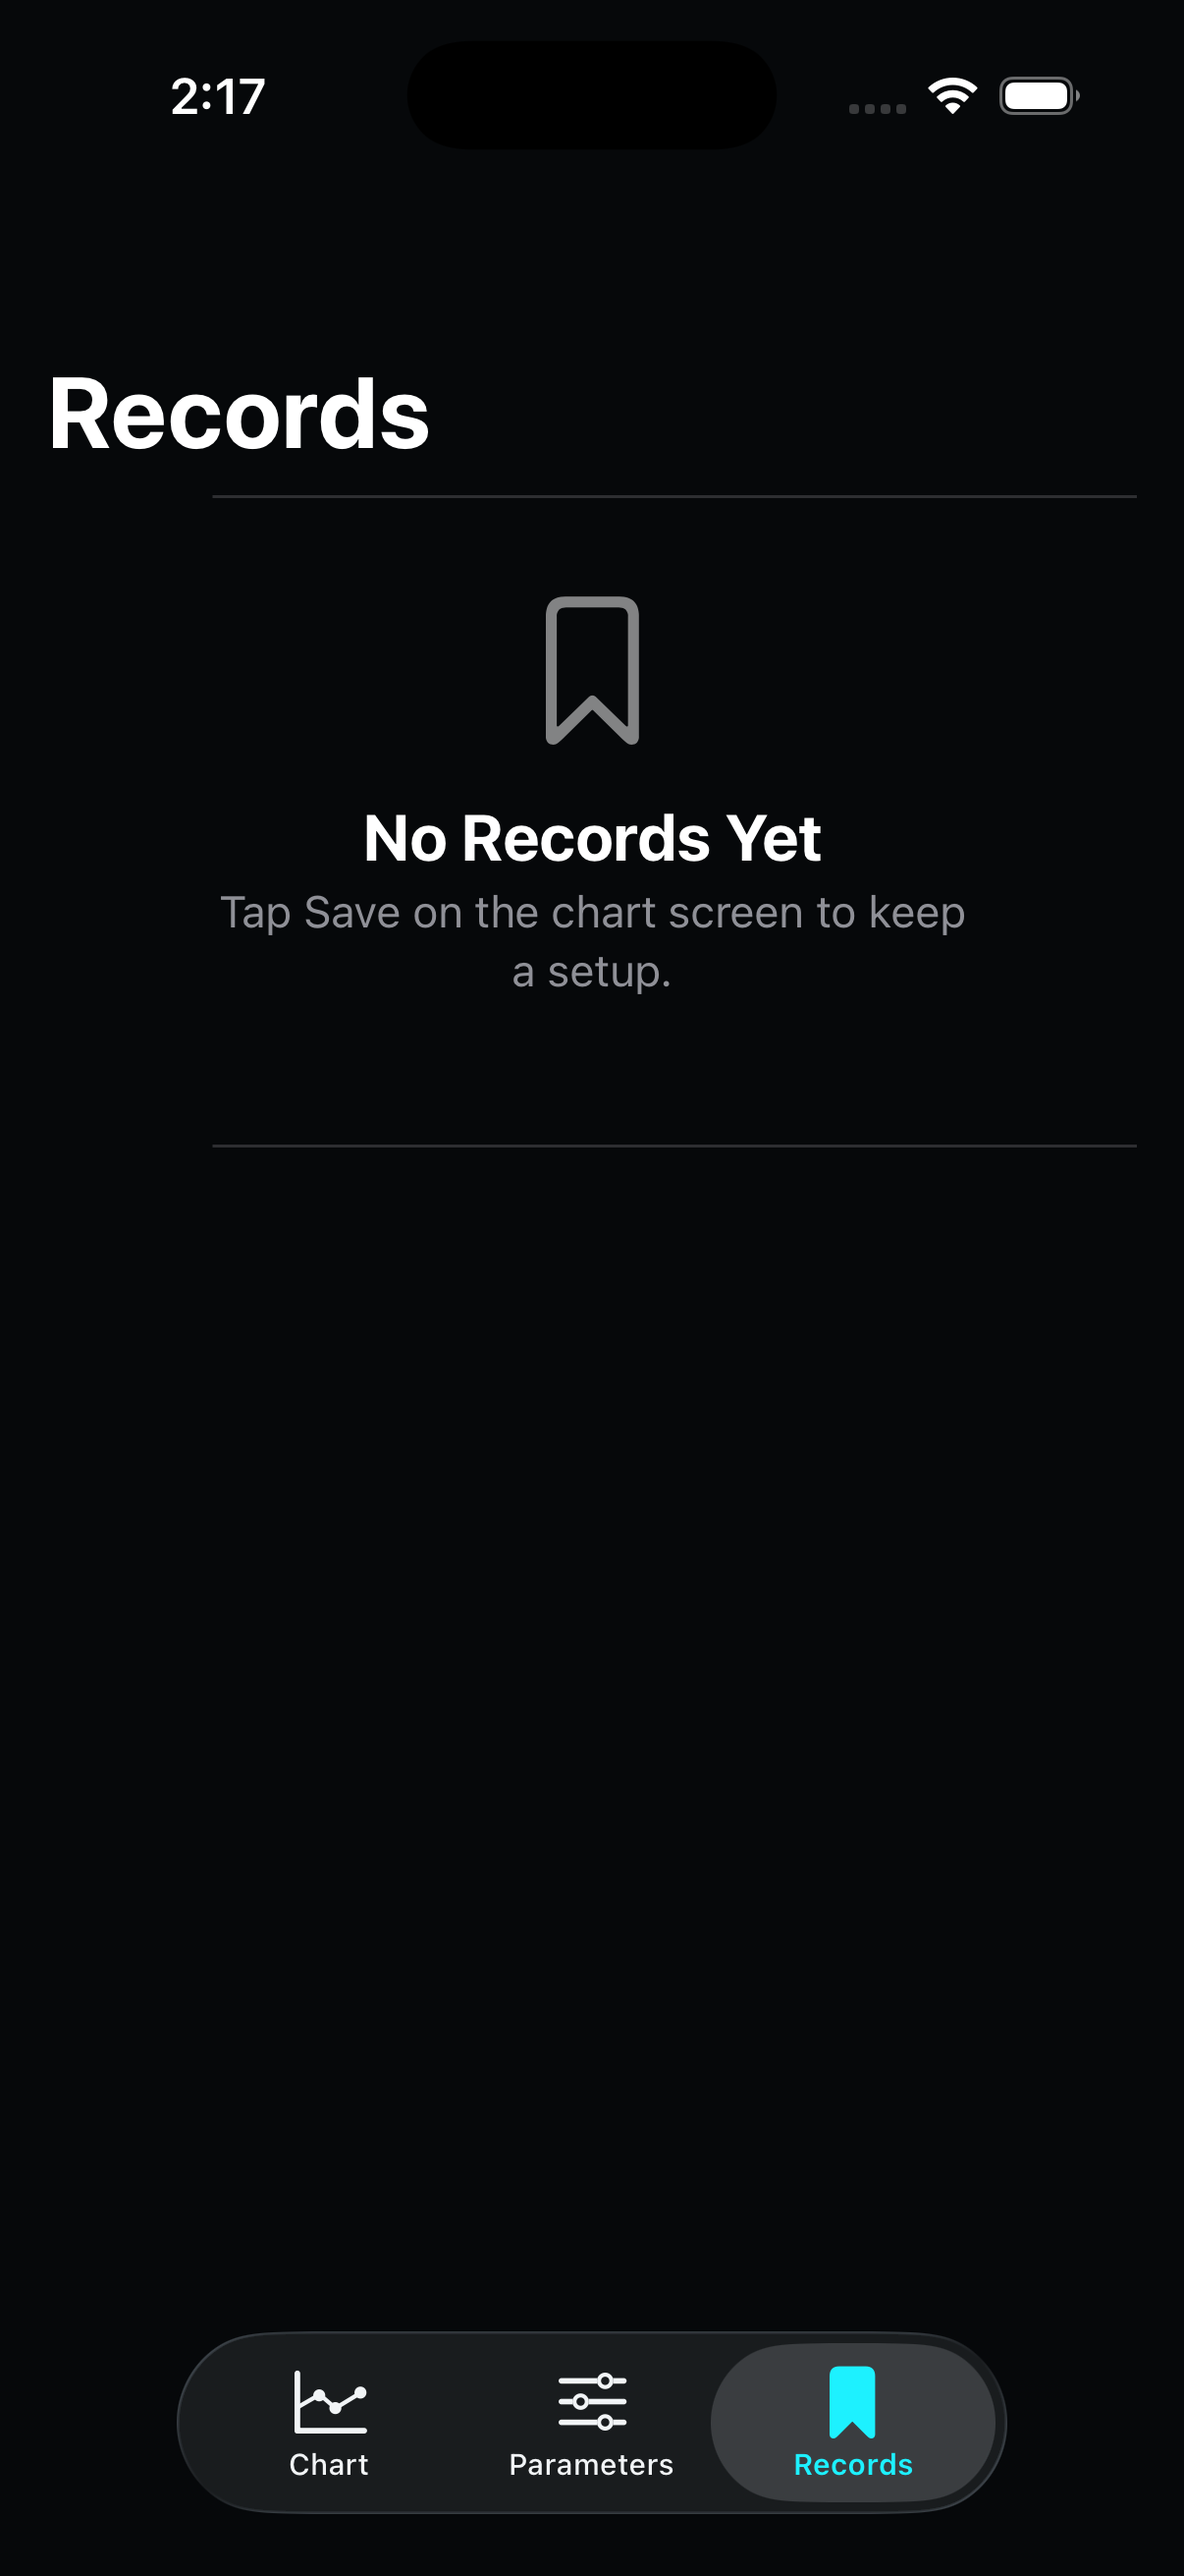
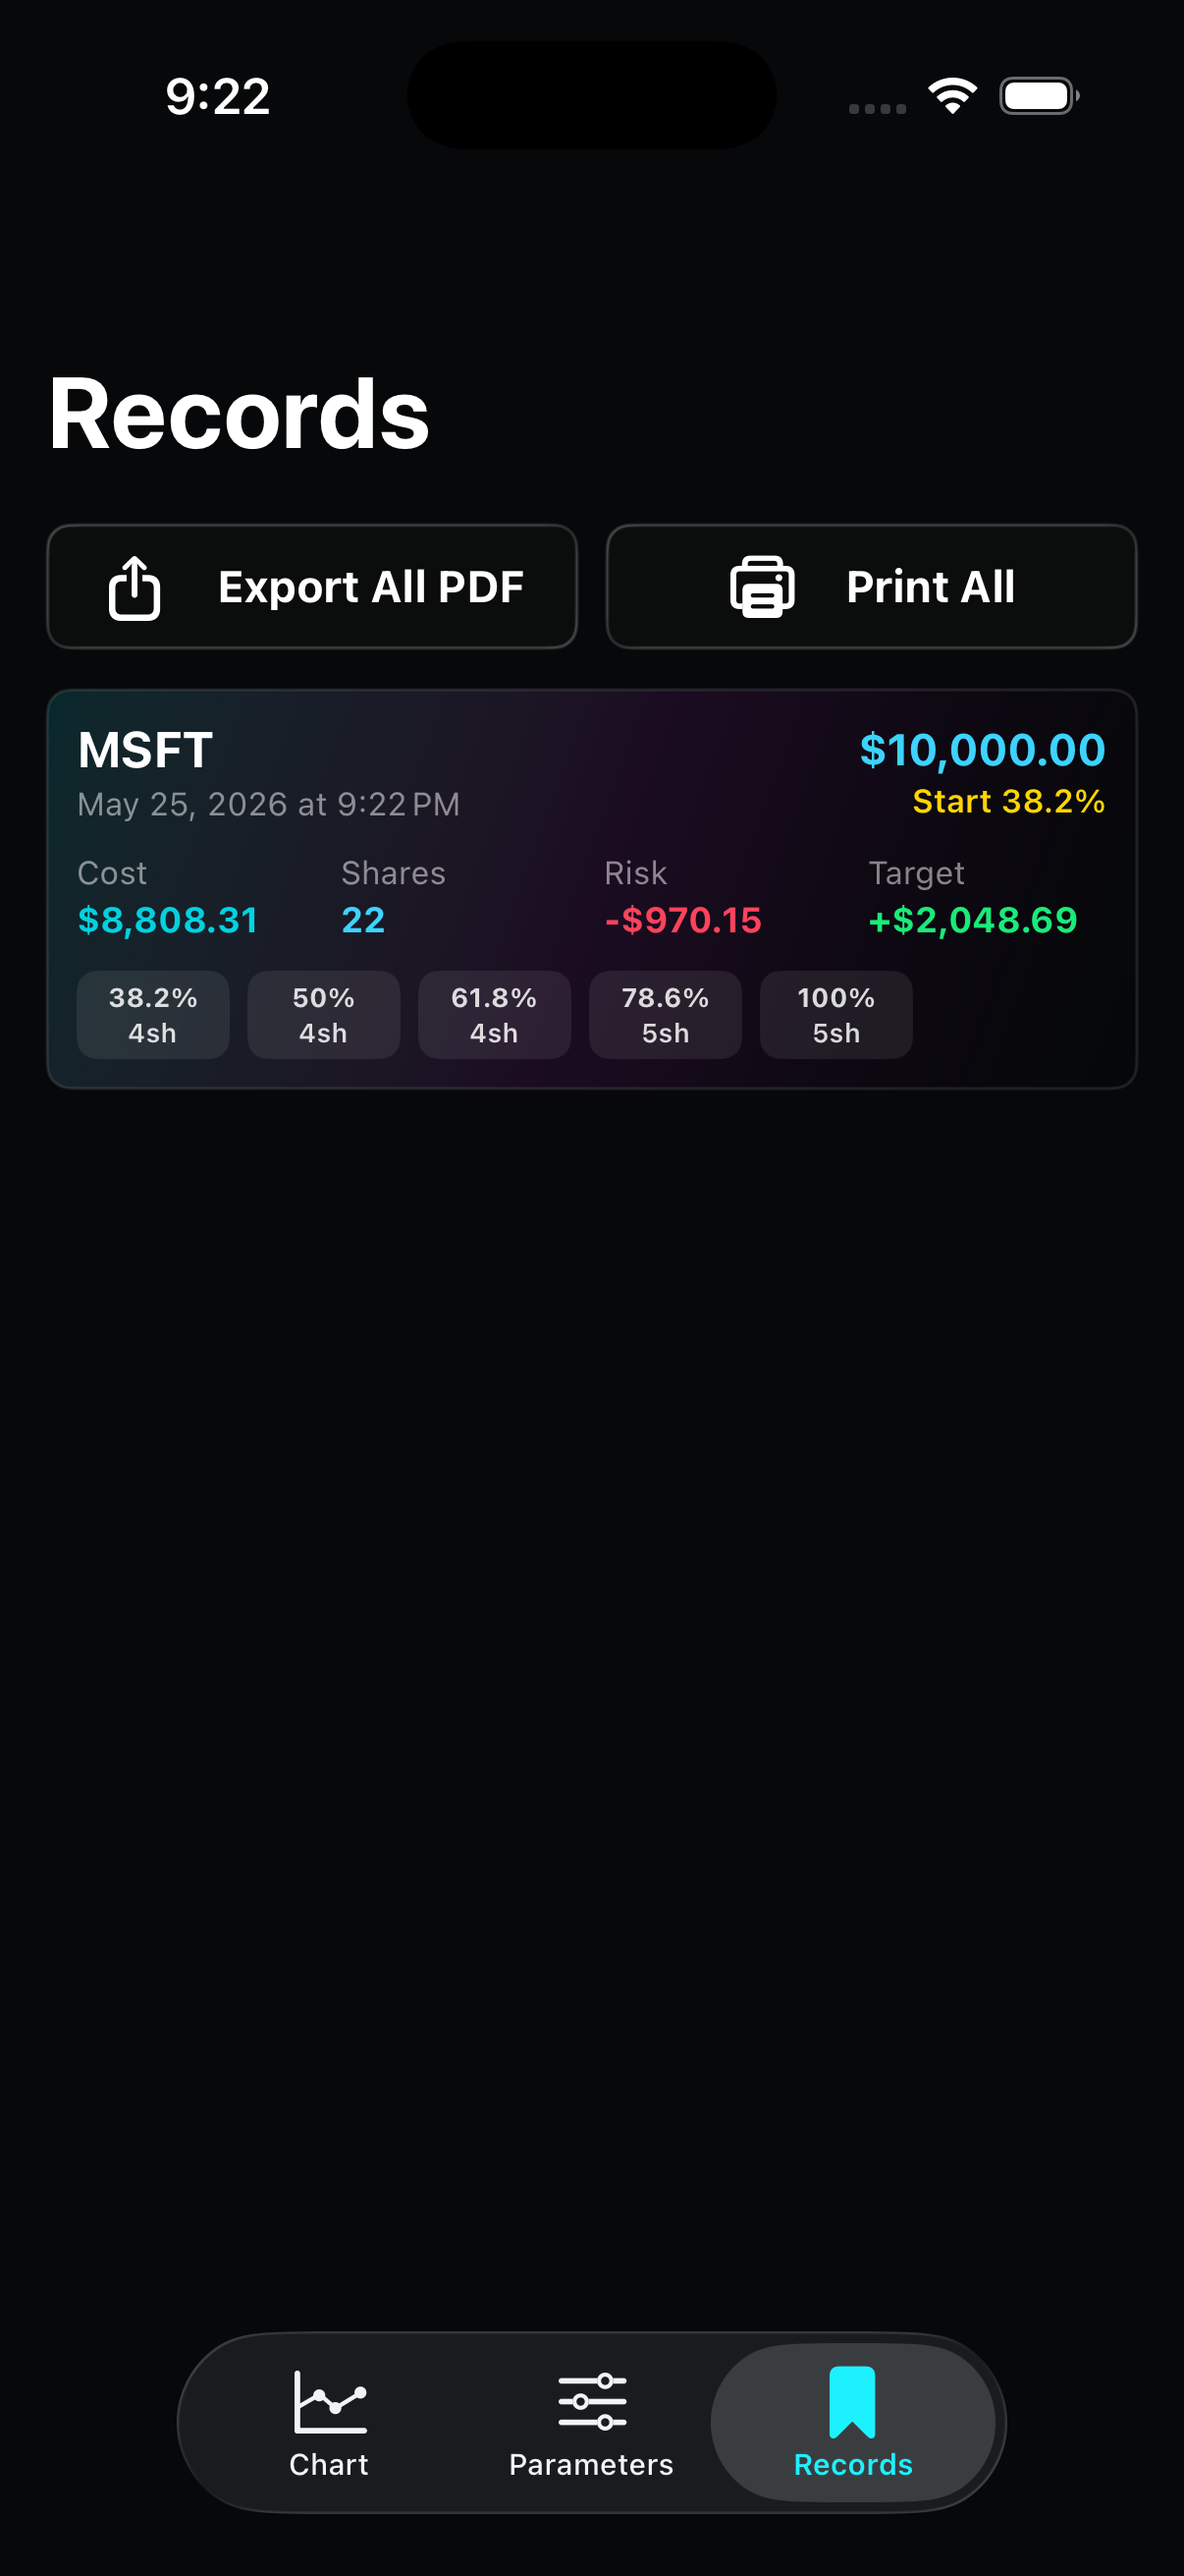
Update records screenshot with saved setup

diff --git a/index.html b/index.html
@@ -232,9 +232,9 @@
             </div>
             <figure>
               <div class="step-shot phone-shot">
-                <img src="assets/screenshot-records.png" alt="Records screen showing the empty saved setup state and Records tab.">
+                <img src="assets/screenshot-records.png" alt="Records screen showing a saved MSFT strategy with cost, shares, risk, target, and staged Fibonacci entries.">
               </div>
-              <figcaption>Records screen where saved setups appear after tapping Save.</figcaption>
+              <figcaption>Records screen with a saved MSFT setup ready to export or print.</figcaption>
             </figure>
           </article>
         </div>
